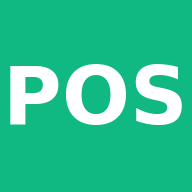
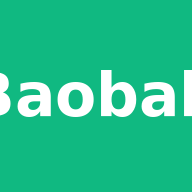
rebrand: change app name from Offline-POS to Baobab
- Update PWA icons with Baobab text
- Change manifest name to 'Baobab POS'
- Update page title to 'Baobab — Offline Point of Sale'
- Update service worker cache name to 'baobab-pos-v1'

Changed region(s): [[0.0, 0.3125, 1.0, 0.6562]]

diff --git a/app/layout.tsx b/app/layout.tsx
@@ -5,7 +5,7 @@ import BottomNav from "@/components/BottomNav";
 import PWARegister from "@/components/PWARegister";
 
 export const metadata: Metadata = {
-  title: "Offline-POS — Resilient Point of Sale",
+  title: "Baobab — Offline Point of Sale",
   description: "Offline-first point of sale system for small businesses.",
   manifest: "/manifest.json",
 };
